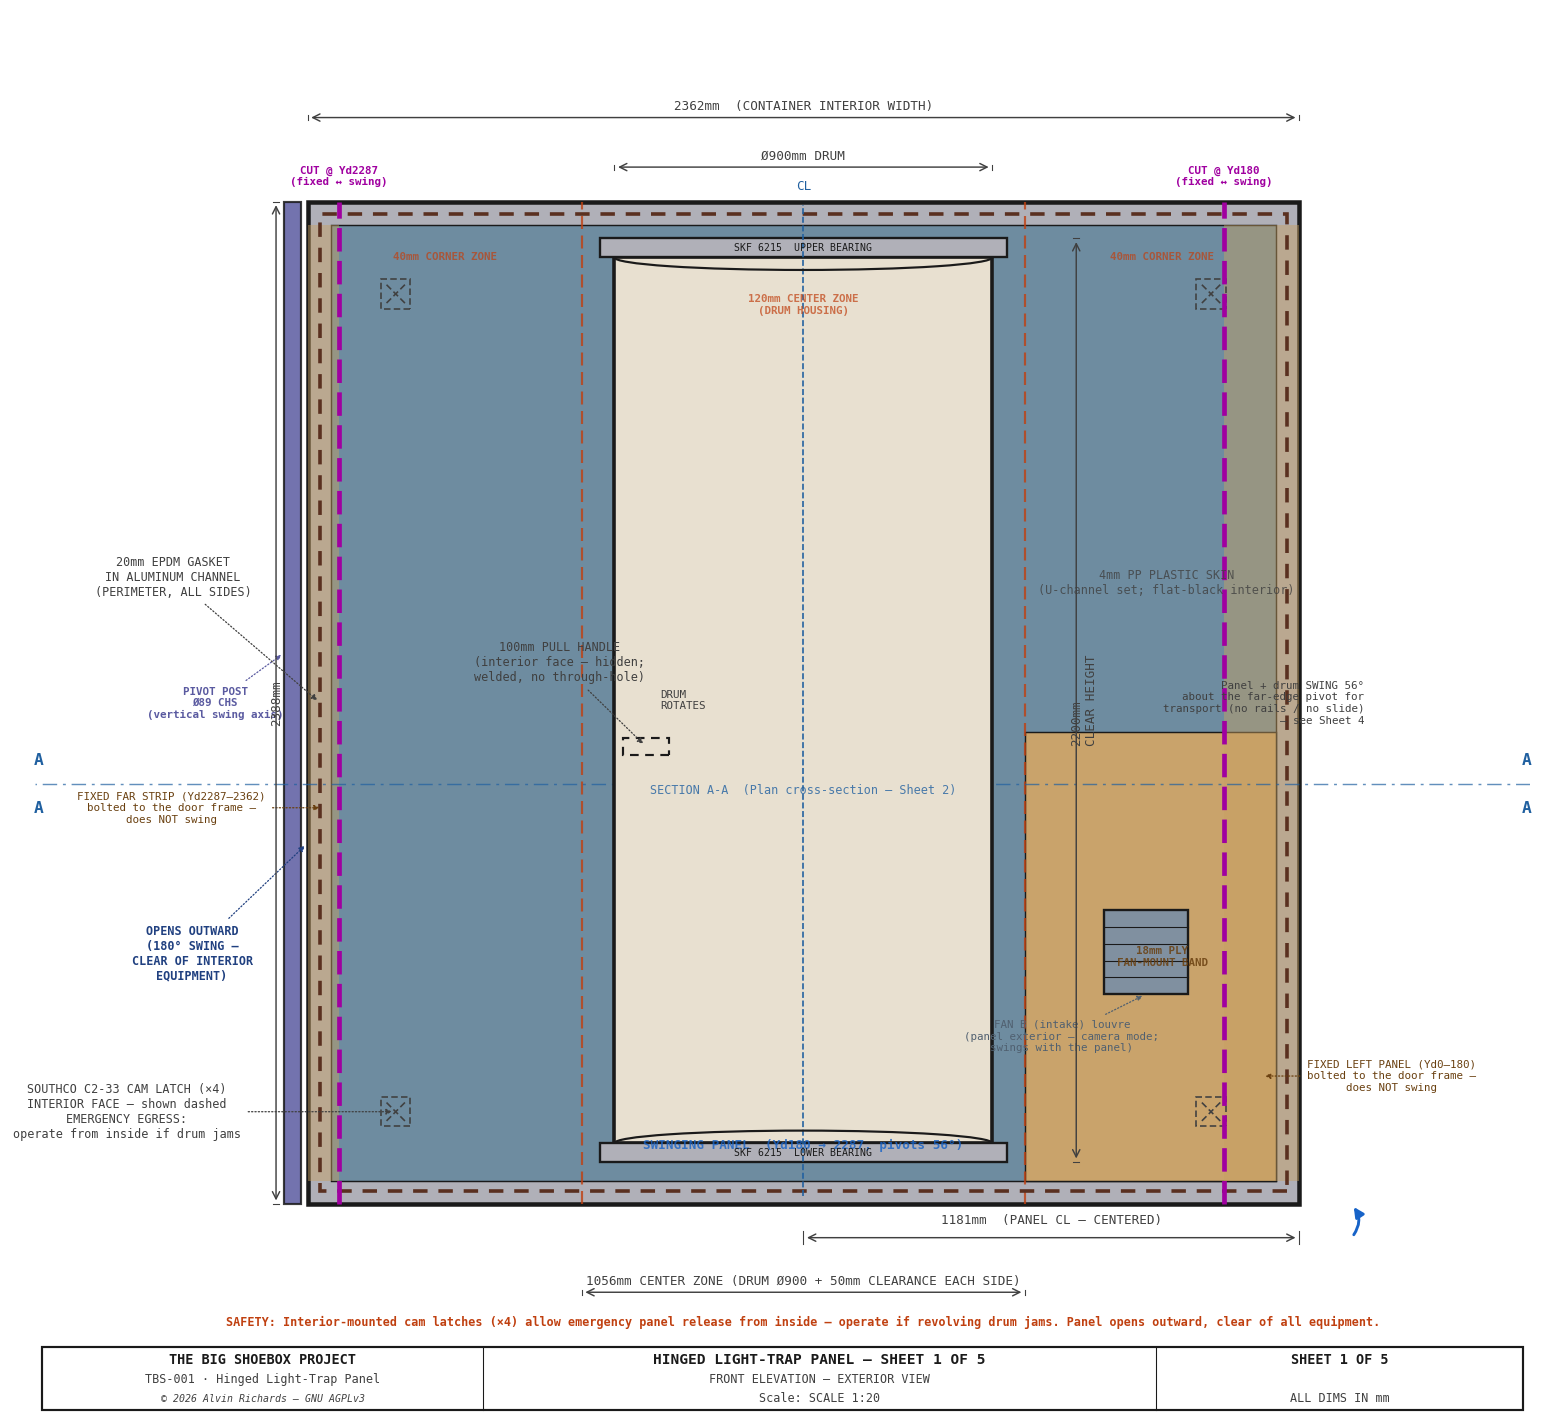
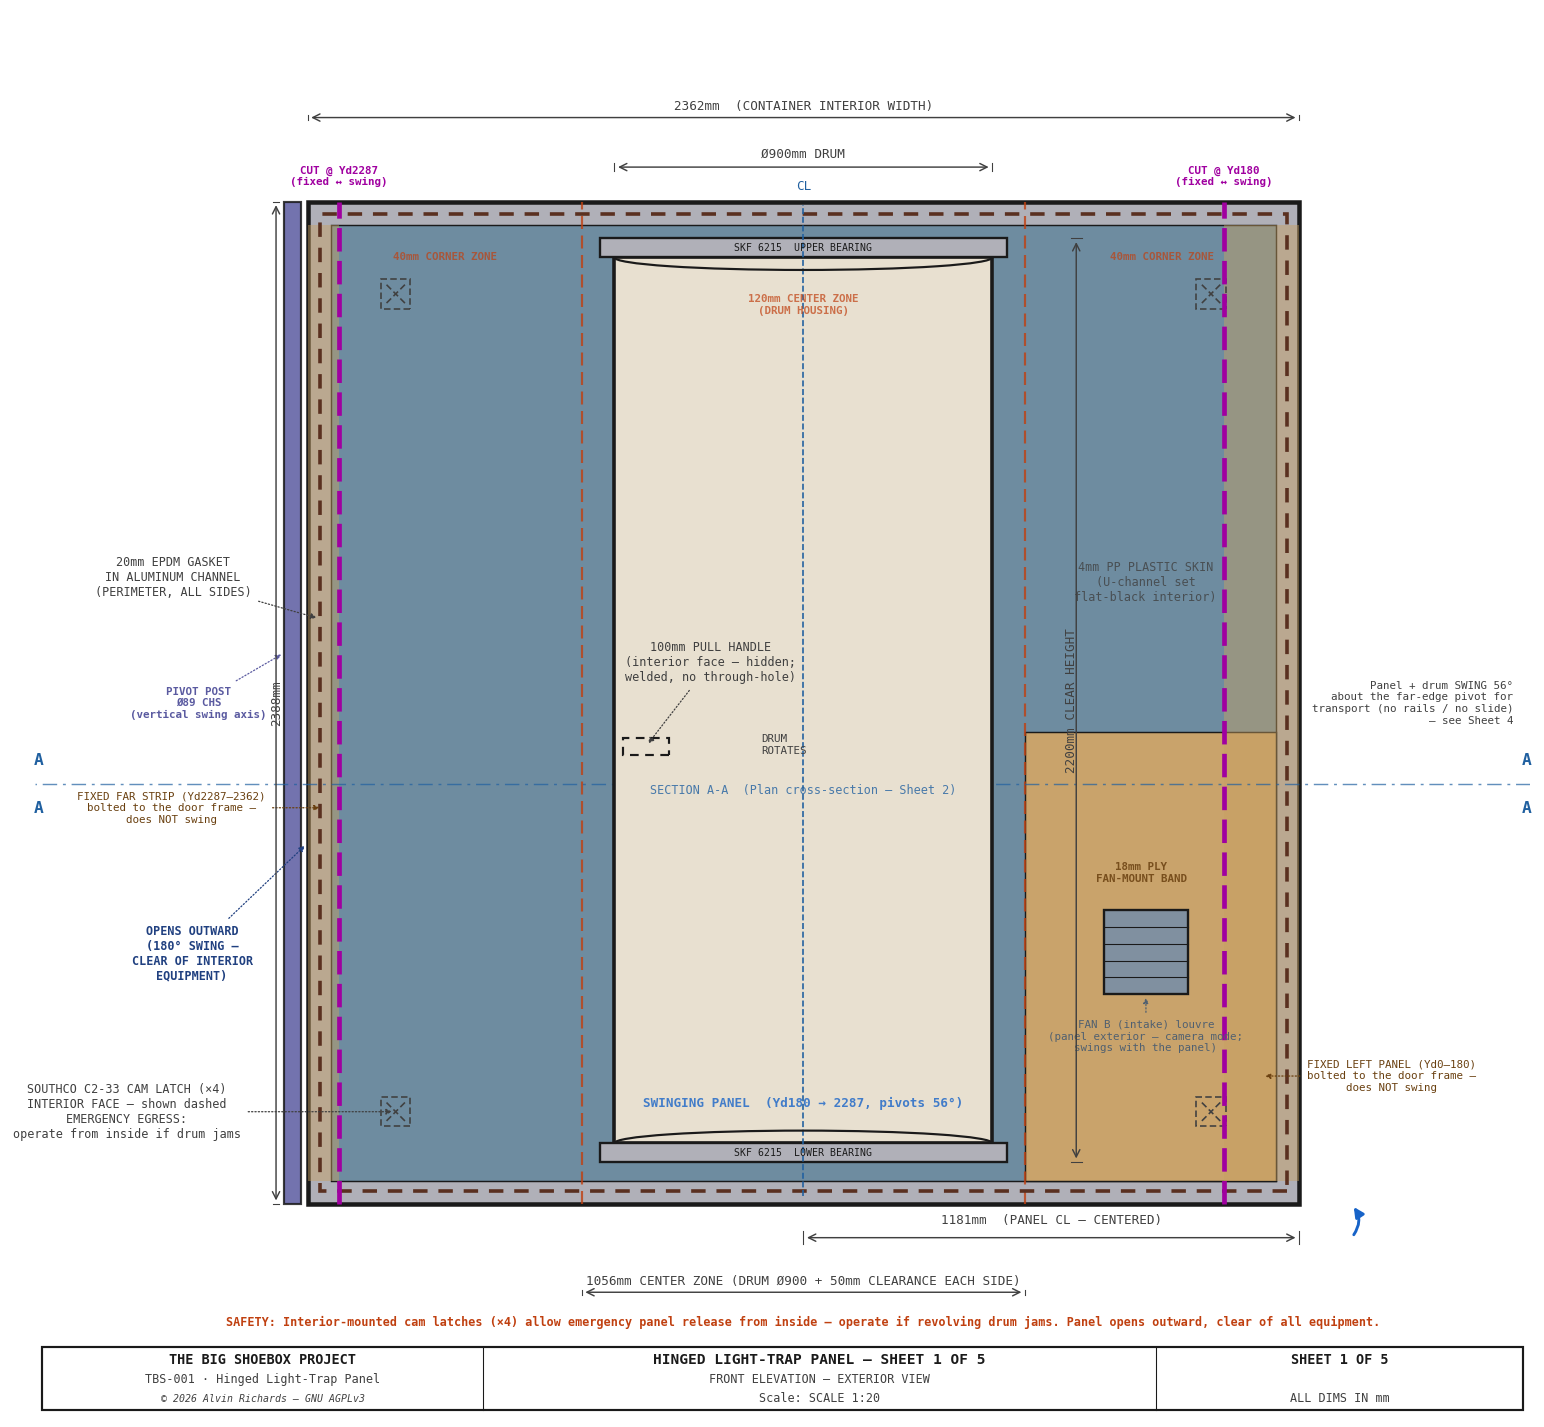
Tidy labels

diff --git a/src/generators/generate_hingepanel_diagram.py b/src/generators/generate_hingepanel_diagram.py
@@ -109,14 +109,14 @@ def sheet1():
     FR = 55  # visible frame width at face
     ax.add_patch(Rectangle((FR, FR), PW - 2 * FR, PH - 2 * FR,
                             fc=C_PLASTIC, ec=C_OUT, lw=0.8, zorder=3))
-    ax.text(PW / 4 - 275, PH * 0.62,
-            "4mm PP PLASTIC SKIN\n(U-channel set; flat-black interior)",
+    ax.text(PW / 4 - 225, PH * 0.62,
+            "4mm PP PLASTIC SKIN\n(U-channel set\nflat-black interior)",
             color=C_DIM, fontsize=6.5, ha="center", va="center", **FONT, zorder=15, alpha=0.8)
     # Fan B corner keeps an 18mm PLYWOOD mount band (bottom up to PANEL_FAN_BAND_Z)
     from tbs_constants import PANEL_FAN_BAND_Z as _PFBZ
     ax.add_patch(Rectangle((FR, FR), PANEL_CORNER_YD_L - FR, _PFBZ - FR,
                             fc=C_WOOD, ec=C_OUT, lw=0.8, zorder=3.2))
-    ax.text(PANEL_CORNER_YD_L / 2, (_PFBZ + FR) / 2,
+    ax.text(PANEL_CORNER_YD_L / 2 + 50, (_PFBZ + FR) / 2 + 200,
             "18mm PLY\nFAN-MOUNT BAND", color="#6a4010", fontsize=6,
             ha="center", va="center", fontweight="bold", **FONT, zorder=15, alpha=0.85)
 
@@ -162,7 +162,7 @@ def sheet1():
            "FIXED FAR STRIP (Yd2287–2362)\nbolted to the door frame —\ndoes NOT swing", col="#6a4010", fs=6)
     leader(ax, (_CUT / 2, FR + 250), (-220, FR + 250),
            "FIXED LEFT PANEL (Yd0–180)\nbolted to the door frame —\ndoes NOT swing", col="#6a4010", fs=6)
-    ax.text(PW / 2, FR + 70, "SWINGING PANEL  (Yd180 → 2287, pivots 56°)", color="#1763C8",
+    ax.text(PW / 2, FR + 170, "SWINGING PANEL  (Yd180 → 2287, pivots 56°)", color="#1763C8",
             fontsize=7, ha="center", va="bottom", fontweight="bold", **FONT, zorder=15, alpha=0.8)
 
     # ── Fan B intake — weatherproof louvre on the panel exterior (near corner) ──
@@ -173,7 +173,7 @@ def sheet1():
     for i in range(1, 5):
         yy = _FBH - fb_h / 2 + i * fb_h / 5
         ax.plot([_FBY - fb_w / 2, _FBY + fb_w / 2], [yy, yy], color=C_OUT, lw=0.6, zorder=7)
-    leader(ax, (_FBY, _FBH - fb_h / 2), (_FBY + 200, _FBH - 200),
+    leader(ax, (_FBY, _FBH - fb_h / 2), (_FBY, _FBH - 200),
            "FAN B (intake) louvre\n(panel exterior — camera mode;\nswings with the panel)", col="#506070", fs=6)
 
     # ── Revolving drum ────────────────────────────────────────────────────────
@@ -217,8 +217,8 @@ def sheet1():
                     arrowprops=dict(arrowstyle="->", color=C_DIM, lw=0.9,
                                     connectionstyle="arc3,rad=0.5", mutation_scale=8))
 
-    ax.text(DRUM_CX + DRUM_R * 0.6 + 70,
-            drum_body_y0 + drum_body_h / 2,
+    ax.text(DRUM_CX + DRUM_R * 0.6 - 170,
+            drum_body_y0 + drum_body_h * 0.45,
             "DRUM\nROTATES", color=C_DIM, fontsize=6,
             ha="left", va="center", **FONT, zorder=15)
 
@@ -231,7 +231,7 @@ def sheet1():
     hx_handle = DX + DRUM_D - HW - 20
     ax.add_patch(Rectangle((hx_handle, HY - HH / 2), HW, HH,
                             fc="none", ec=C_OUT, lw=1.2, ls=(0, (4, 3)), zorder=7))
-    leader(ax, (hx_handle + HW / 2, HY), (DX + DRUM_D + 130, HY + 200),
+    leader(ax, (hx_handle + HW / 2, HY), (DX + DRUM_D - 230, HY + 200),
            "100mm PULL HANDLE\n(interior face — hidden;\nwelded, no through-hole)")
 
     # ── (rev10: the left-edge barrel hinges are RETIRED — the panel pivots on the
@@ -257,7 +257,7 @@ def sheet1():
     PIVOT_PX = PW + 35    # far-edge pivot post (just past the panel right edge)
     ax.add_patch(Rectangle((PIVOT_PX - 20, 0), 40, PH,
                             fc="#5A5AA0", ec=C_OUT, lw=1.2, zorder=3, alpha=0.85))
-    leader(ax, (PIVOT_PX + 20, PH * 0.55), (PIVOT_PX + 185, PH / 2),
+    leader(ax, (PIVOT_PX + 20, PH * 0.55), (PIVOT_PX + 225, PH / 2),
            "PIVOT POST\nØ89 CHS\n(vertical swing axis)",
            col="#5A5AA0", fs=6, fw="bold")
     # swing direction arc on the near (left) side
@@ -265,7 +265,7 @@ def sheet1():
     ax.annotate("", xy=(-HINGE_W - 40, arr_y + 80), xytext=(-HINGE_W - 40, arr_y),
                 arrowprops=dict(arrowstyle="-|>", color="#1763C8", lw=1.6,
                                 connectionstyle="arc3,rad=0.4", mutation_scale=11), zorder=15)
-    ax.text(-HINGE_W - 70, PH / 2,
+    ax.text(-HINGE_W - 425, PH / 2,
             "Panel + drum SWING 56°\nabout the far-edge pivot for\ntransport (no rails / no slide)\n— see Sheet 4",
             color=C_DIM, fontsize=6, ha="right", va="center", **FONT, zorder=15)
 
@@ -307,7 +307,7 @@ def sheet1():
             fontweight="bold", **FONT, zorder=15)
 
     # ── EPDM seal leader ─────────────────────────────────────────────────────
-    leader(ax, (PW - S, PH / 2),
+    leader(ax, (PW - S, PH / 2 + 200),
            (PW + 320, PH / 2 + 300),
            "20mm EPDM GASKET\nIN ALUMINUM CHANNEL\n(PERIMETER, ALL SIDES)")
 
@@ -317,8 +317,8 @@ def sheet1():
     # Panel height
     draw_dim_v(ax, PW + 75, 0, PH, f"{PH}mm", offset=-25, fs=7, right=True, font=FONT)
     # Drum diameter
-    draw_dim_h(ax, DX, DX + DRUM_D, DY_TOP + 170, f"Ø{DRUM_D}mm DRUM", offset=20, fs=7, font=FONT)    # Drum clear height
-    draw_dim_v(ax, DX - 200, DY_BOT, DY_TOP, f"{DRUM_H}mm\nCLEAR HEIGHT", offset=25, fs=7, right=True, font=FONT)
+    draw_dim_h(ax, DX, DX + DRUM_D, DY_TOP + 170, f"Ø{DRUM_D}mm DRUM", offset=30, fs=7, font=FONT)    # Drum clear height
+    draw_dim_v(ax, DX - 200, DY_BOT, DY_TOP, f"{DRUM_H}mm CLEAR HEIGHT", offset=45, fs=7, right=True, font=FONT)
     # Drum center from left
     draw_dim_h(ax, 0, DRUM_CX, DY_BOT - 180, f"{int(DRUM_CX)}mm  (PANEL CL — CENTERED)", offset=-50, fs=7, font=FONT)   # (hinge-position dims retired with the barrel hinges — the panel pivots on the post.)
 
